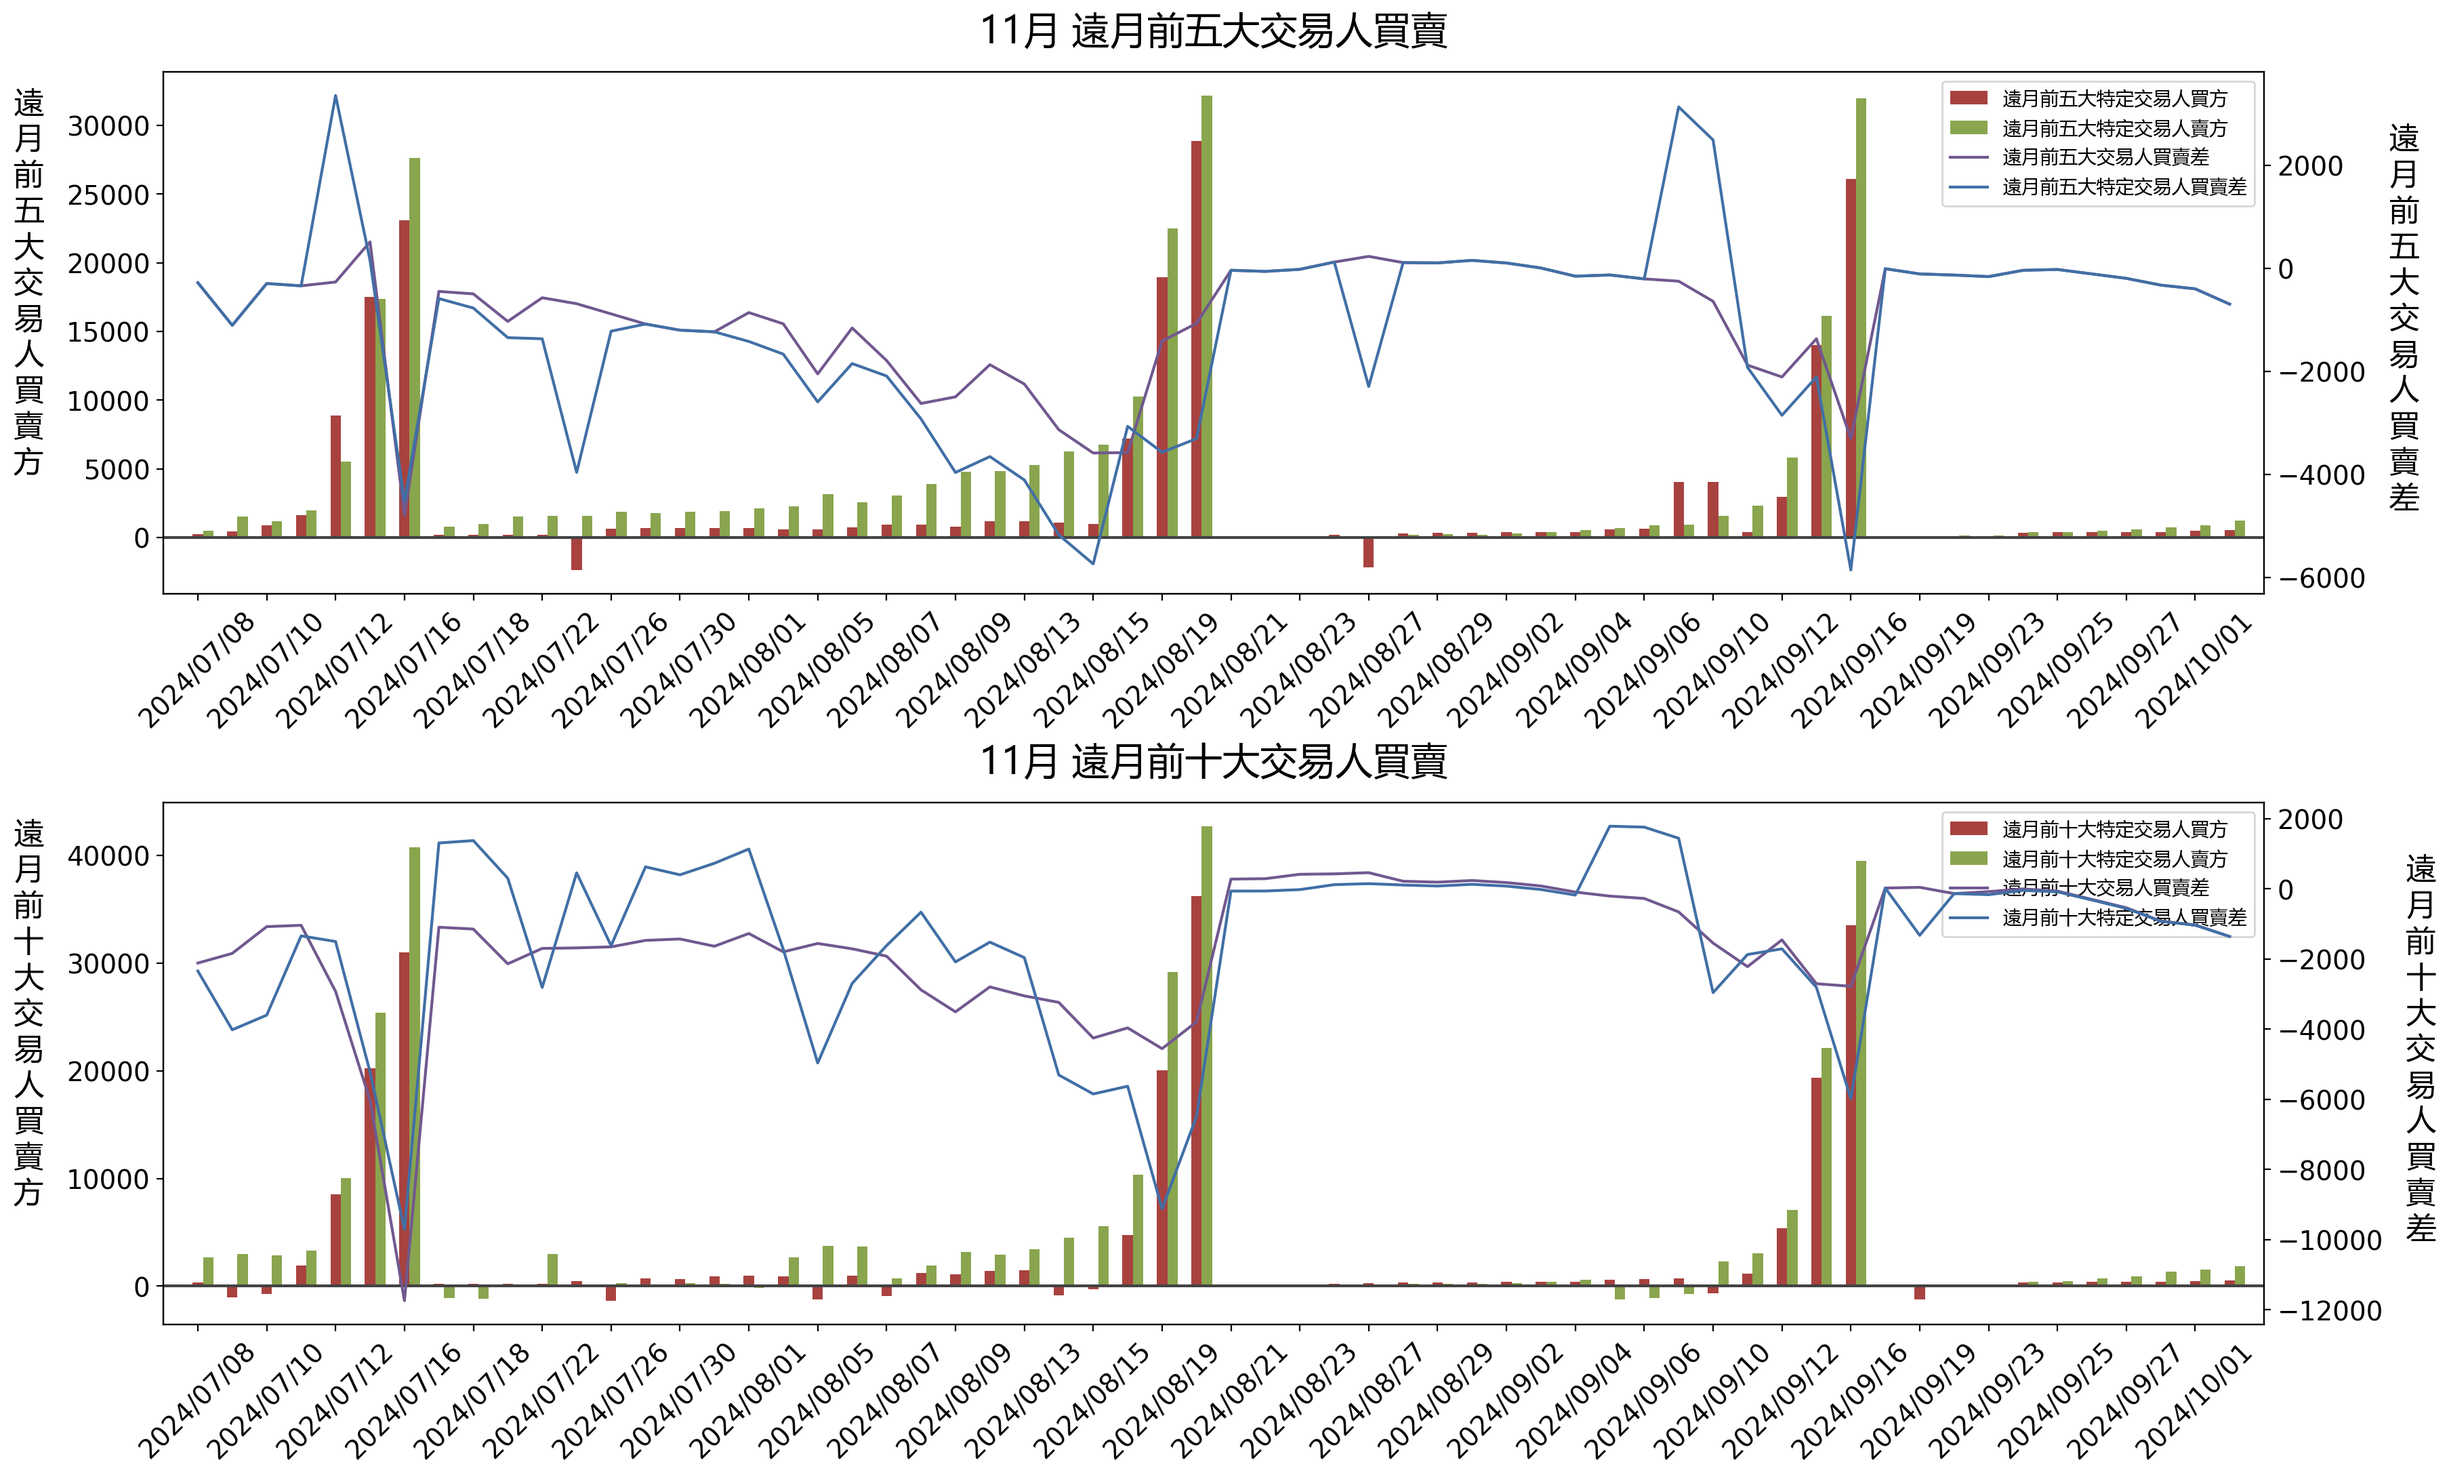
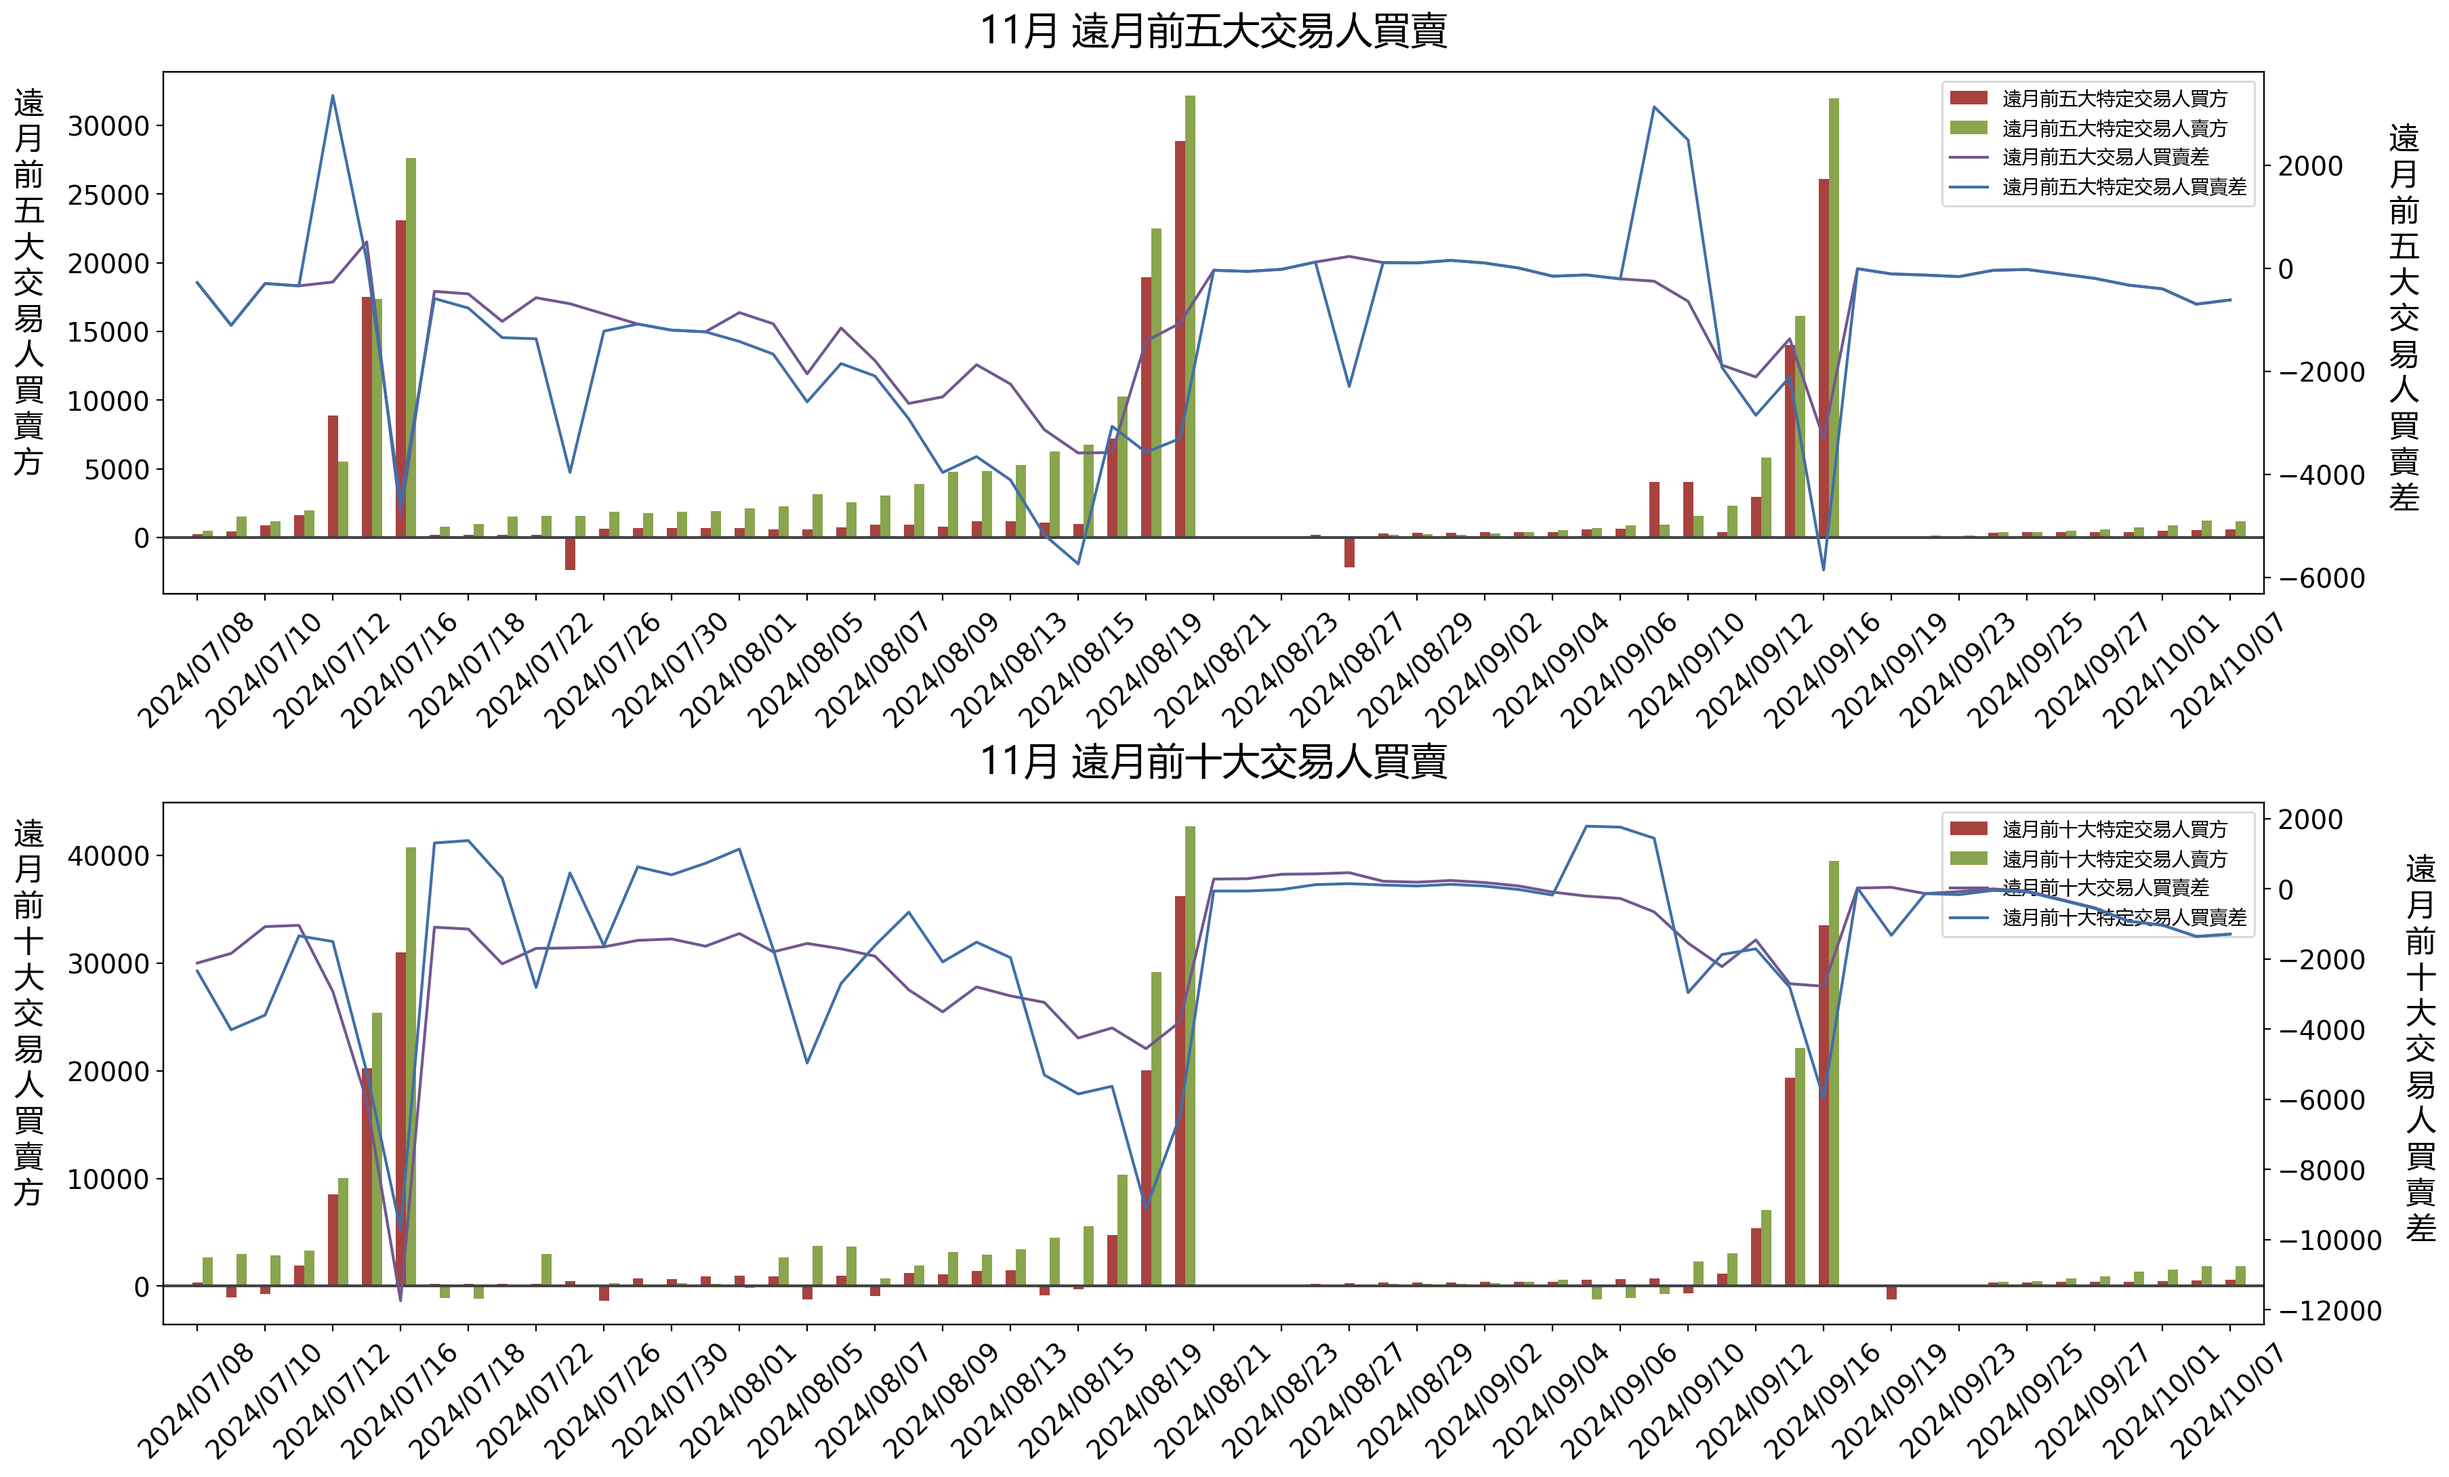
更新時間: Mon Oct  7 16:35:02 CST 2024

diff --git a/README.md b/README.md
@@ -1,12 +1,12 @@
-## 20241006 台指期「預估換倉成本」
+## 20241007 台指期「預估換倉成本」
 ![](images/txfcost.png)
 
-## 20241006 台指期「散戶小台多空比」
+## 20241007 台指期「散戶小台多空比」
 ![](images/bbiri.png)
 
-## 20241006 台指選擇權「Put/Call Ratios」
+## 20241007 台指選擇權「Put/Call Ratios」
 ![](images/pcratio.png)
 
-## 20241006 台指期「大額交易人」
+## 20241007 台指期「大額交易人」
 ![](images/blocktrade.png)
 
